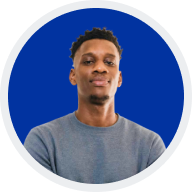
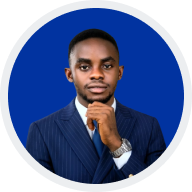
Split web development into frontend and backend course cards.
Replace the single full-stack course with separate frontend and backend offerings and matching images.

diff --git a/lib/site.ts b/lib/site.ts
@@ -95,14 +95,24 @@ export const disciplines = [
 
 export const courses = [
   {
-    title: "Web Development",
-    category: "FULL-STACK",
+    title: "Frontend Web Development",
+    category: "FRONTEND",
     description:
-      "Build modern web applications from frontend to backend with real client-ready projects.",
+      "Build responsive, interactive user interfaces with modern HTML, CSS, JavaScript, and React.",
     duration: "12 Weeks",
     originalPrice: "₦150,000",
     price: "₦30,000",
-    image: "/course-web.jpg",
+    image: "/course-frontend.jpg",
+  },
+  {
+    title: "Backend Development",
+    category: "BACKEND",
+    description:
+      "Design APIs, databases, and server-side systems that power reliable web applications.",
+    duration: "12 Weeks",
+    originalPrice: "₦150,000",
+    price: "₦30,000",
+    image: "/course-backend.jpg",
   },
   {
     title: "UI/UX Design",
